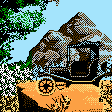
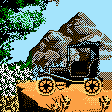
GB version: clear right bush and add rear wheel
Claude-Session: https://claude.ai/code/session_01HDDenGJcXVa97j3Zfufn6N

Changed region(s): [[0.75, 0.5357, 1.0, 1.0]]

diff --git a/tools/gb_clear_right_bush.py b/tools/gb_clear_right_bush.py
@@ -1,0 +1,27 @@
+#!/usr/bin/env python3
+"""GB-source version of clear_right_bush: remove right bush, add rear wheel.
+usage: gb_clear_right_bush.py in.png out.png   (works on the 112x112 scene at 0,0)"""
+import sys
+from PIL import Image
+
+src = Image.open(sys.argv[1]).convert("RGB")
+shades = sorted(set(src.crop((0, 0, 112, 112)).getdata()), key=sum)
+L1, L2, L3 = shades[1], shades[2], shades[3]
+im = src.copy()
+
+BX, BY = 100, 60       # bush top-left
+SKY_Y, ROAD_Y = 72, 90
+for y in range(BY, 112):
+    for x in range(BX, 112):
+        if y >= ROAD_Y:
+            im.putpixel((x, y), src.getpixel((x - 40, y)))   # road texture
+        elif y < SKY_Y:
+            im.putpixel((x, y), L3)                          # sky
+        else:
+            im.putpixel((x, y), L1 if (x + y) % 2 else L2)   # hillside dither
+
+FW = (38, 78, 57, 96)  # front wheel box
+wheel = src.crop(FW)
+RX = 84
+im.paste(wheel, (RX, FW[1]))
+im.save(sys.argv[2])
